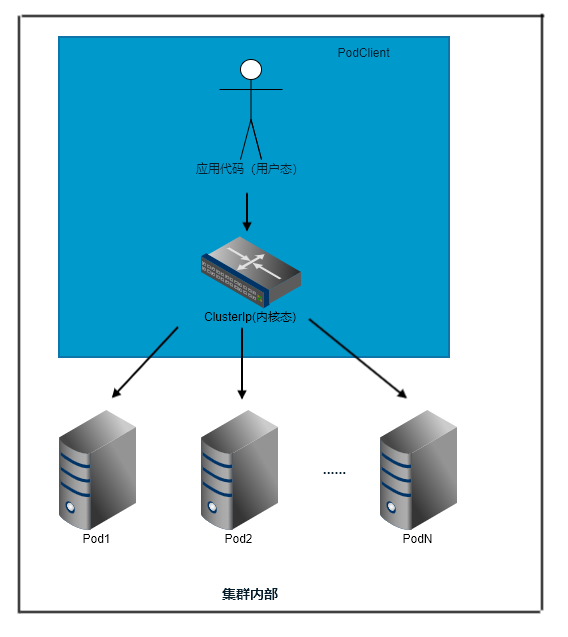
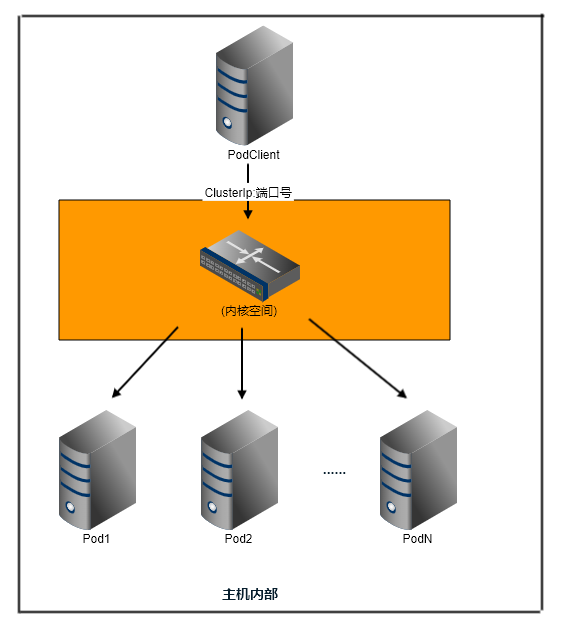
重新编译代码

diff --git a/docs/posts/k8s-startup/index.html b/docs/posts/k8s-startup/index.html
@@ -23,7 +23,7 @@
 <script class="next-config" data-name="main" type="application/json">{"hostname":"blog.whyun.com","root":"/","images":"/images","scheme":"Muse","version":"8.7.1","exturl":false,"sidebar":{"position":"left","display":"post","padding":18,"offset":12},"copycode":true,"bookmark":{"enable":false,"color":"#222","save":"auto"},"mediumzoom":false,"lazyload":false,"pangu":false,"comments":{"style":"tabs","active":null,"storage":true,"lazyload":false,"nav":null},"motion":{"enable":false,"async":false,"transition":{"post_block":"fadeIn","post_header":"fadeInDown","post_body":"fadeInDown","coll_header":"fadeInLeft","sidebar":"fadeInUp"}},"prism":false,"i18n":{"placeholder":"搜索...","empty":"没有找到任何搜索结果：${query}","hits_time":"找到 ${hits} 个搜索结果（用时 ${time} 毫秒）","hits":"找到 ${hits} 个搜索结果"}}</script><script src="/js/config.js"></script>
 <meta name="description" content="之前通过讲 [docker compose 教程](https:&#x2F;&#x2F;blog.whyun.com&#x2F;posts&#x2F;docker-compose-tutorial&#x2F;) 初步了解容器编排技术。但是 docker compose 默认只能在单机模式下运行，如果想在多个宿主机上运行，你可以借助 [docker swarm](https:&#x2F;&#x2F;docs.docker.com&#x2F;engine&#x2F;swarm&#x2F;) 技术，你">
 <meta property="og:type" content="article">
-<meta property="og:title" content="k8s 入门">
+<meta property="og:title" content="k8s 原理入门">
 <meta property="og:url" content="https://blog.whyun.com/posts/k8s-startup/">
 <meta property="og:site_name" content="白一梓的个人博客">
 <meta property="og:description" content="之前通过讲 [docker compose 教程](https:&#x2F;&#x2F;blog.whyun.com&#x2F;posts&#x2F;docker-compose-tutorial&#x2F;) 初步了解容器编排技术。但是 docker compose 默认只能在单机模式下运行，如果想在多个宿主机上运行，你可以借助 [docker swarm](https:&#x2F;&#x2F;docs.docker.com&#x2F;engine&#x2F;swarm&#x2F;) 技术，你">
@@ -33,7 +33,7 @@
 <meta property="og:image" content="https://blog.whyun.com/images/nat_transform.png">
 <meta property="og:image" content="https://blog.whyun.com/images/route_in_k8s.png">
 <meta property="article:published_time" content="2021-10-25T16:00:00.000Z">
-<meta property="article:modified_time" content="2021-10-30T15:50:48.430Z">
+<meta property="article:modified_time" content="2021-10-31T05:28:07.974Z">
 <meta property="article:author" content="yunnysunny">
 <meta name="twitter:card" content="summary">
 <meta name="twitter:image" content="https://blog.whyun.com/images/docker_desktop_k8s.png">
@@ -43,10 +43,10 @@
 
 
 
-<script class="next-config" data-name="page" type="application/json">{"sidebar":"","isHome":false,"isPost":true,"lang":"zh-CN","comments":true,"permalink":"https://blog.whyun.com/posts/k8s-startup/","path":"posts/k8s-startup/","title":"k8s 入门"}</script>
+<script class="next-config" data-name="page" type="application/json">{"sidebar":"","isHome":false,"isPost":true,"lang":"zh-CN","comments":true,"permalink":"https://blog.whyun.com/posts/k8s-startup/","path":"posts/k8s-startup/","title":"k8s 原理入门"}</script>
 
 <script class="next-config" data-name="calendar" type="application/json">""</script>
-<title>k8s 入门 | 白一梓的个人博客</title>
+<title>k8s 原理入门 | 白一梓的个人博客</title>
   
 
   <script src="/js/third-party/analytics/baidu-analytics.js"></script>
@@ -213,7 +213,7 @@
     </span>
       <header class="post-header">
         <h1 class="post-title" itemprop="name headline">
-          k8s 入门
+          k8s 原理入门
         </h1>
 
         <div class="post-meta-container">
@@ -231,7 +231,7 @@
           <i class="far fa-calendar-check"></i>
         </span>
         <span class="post-meta-item-text">更新于</span>
-        <time title="修改时间：2021-10-30 23:50:48" itemprop="dateModified" datetime="2021-10-30T23:50:48+08:00">2021-10-30</time>
+        <time title="修改时间：2021-10-31 13:28:07" itemprop="dateModified" datetime="2021-10-31T13:28:07+08:00">2021-10-31</time>
       </span>
 
   
@@ -245,7 +245,7 @@
     
     
     <div class="post-body" itemprop="articleBody">
-        <p>之前通过讲 <a href="https://blog.whyun.com/posts/docker-compose-tutorial/">docker compose 教程</a> 初步了解容器编排技术。但是 docker compose 默认只能在单机模式下运行，如果想在多个宿主机上运行，你可以借助 <a target="_blank" rel="noopener" href="https://docs.docker.com/engine/swarm/">docker swarm</a> 技术，你可以方便的将 docker-compose.yml 文件运用到 swarm 集群创建中。不过由于 <a target="_blank" rel="noopener" href="https://kubernetes.io/zh/">kubernetes</a> 的出现，swarm 的市场受到了极大排挤，目前各大公司利用容器编排技术，一般都会选择 kubernetes。本文顺应时势，在讲解容器编排技术的时候也是选择了 kubernetes 作为入门教程。</p>
+        <p>之前通过讲 <a href="https://blog.whyun.com/posts/docker-compose-tutorial/">docker compose 教程</a> 初步了解容器编排技术。但是 docker compose 默认只能在单机模式下运行，如果想在多个宿主机上运行，你可以借助 <a target="_blank" rel="noopener" href="https://docs.docker.com/engine/swarm/">docker swarm</a> 技术，你可以方便的将 docker-compose.yml 文件运用到 swarm 集群创建中。不过由于 <a target="_blank" rel="noopener" href="https://kubernetes.io/zh/">kubernetes</a> 的出现，swarm 的市场受到了极大排挤，目前各大公司利用容器编排技术，一般都会选择 kubernetes。本文顺应时势，在讲解容器编排技术的时候也是选择了 kubernetes 作为入门教程。本文主要讲解 kubernetes 的安装和内部原理。</p>
 <h2 id="1-安装"><a href="#1-安装" class="headerlink" title="1. 安装"></a>1. 安装</h2><h3 id="1-1-Linux-下安装"><a href="#1-1-Linux-下安装" class="headerlink" title="1.1 Linux 下安装"></a>1.1 Linux 下安装</h3><p>处于演示目的，我们依然选择安装单机版 kubernets，在 Linux 下可以选择安装 <a target="_blank" rel="noopener" href="https://github.com/kubernetes/minikube">minikube</a> 这个工具。</p>
 <figure class="highlight shell"><table><tr><td class="gutter"><pre><span class="line">1</span><br><span class="line">2</span><br><span class="line">3</span><br></pre></td><td class="code"><pre><span class="line">wget https://github.com/kubernetes/minikube/releases/download/v1.23.2/minikube-linux-amd64</span><br><span class="line">chmod +x minikube-linux-amd64</span><br><span class="line">mv minikube-linux-amd64 /usr/local/bin/minikube</span><br></pre></td></tr></table></figure>
 <p><strong>代码 1.1.1</strong></p>
@@ -293,12 +293,17 @@
 <p><img src="/images/nat_transform.png"></p>
 <p><strong>图 2.2</strong></p>
 <p>整个 <code>NAT</code> 过程如上图所示。</p>
-<p>考虑到高可靠性的问题，一个服务不可能部署为单节点，为了展示数据流向，我们在 <strong>图 2.2</strong> 只画了一个节点，实际情况应该是多个节点（对于 kubernetes 来说，这个 “节点” 就称之为 pod）的拓扑结构。而在 kubernetes 中我们并不是需要一台专门的机器做路由，我们的路由被内置到了集群中的没一台机器中，对于集群中的每个服务来说在系统中都会映射出一个 <code>虚拟 IP</code>。用户编写代码如果要连接一个特定服务，只需要提供<code>虚拟 IP</code> 和服务端口号即可，内核层会自动查找到当前 <code>虚拟 IP</code> 对应的某一个 pod 节点，把你的网络数据包转发过去。这个转发过程，全都是在发起请求的 pod 上完成的（整个蓝色区域都是 <code>PodClient</code> 这台区域，虽然里面画了一个路由器，但是仅仅是用来类比<strong>路由表</strong>的功能），效率比较高。上面所说的转发，也就是完成了 <strong>图2.2</strong> 中的第 2 步。不过 <code>PodClient</code> <code>Pod1</code> - <code>PodN</code> 一系列机器都在一个网络中，在 <strong>图 2.2</strong> 中第 <code>3</code> <code>4</code> 步也就不需要了，某一个 <code>PodX</code> 在处理完数据之后请求者的源地址是直接可达的，所以不再需要做地址转化。<code>PodClient</code> 的内核态具体选择哪个 pod，kubernetes 内置了若干<a target="_blank" rel="noopener" href="https://kubernetes.io/zh/docs/concepts/services-networking/service/#proxy-mode-ipvs">算法</a>，比如说 <code>Round-Robin</code> <code>Least Connection</code>，更多说明参见算法链接（使用 IPVS 模式时支持若干算法，但是使用 iptables 时，支支持 <code>Round-Robin</code> 算法）。</p>
+<p>考虑到高可靠性的问题，一个服务不可能部署为单节点，为了展示数据流向，我们在 <strong>图 2.2</strong> 只画了一个节点，实际情况应该是多个节点（对于 kubernetes 来说，这个 “节点” 就称之为 pod）的拓扑结构。而在 kubernetes 中我们并不是需要一台专门的机器做路由，我们的路由被内置到了集群中的没一台机器中，对于集群中的每个服务来说在系统中都会映射出一个 <code>虚拟 IP</code>。用户编写代码如果要连接一个特定服务，只需要提供<code>虚拟 IP</code> 和服务端口号即可，内核层会自动查找到当前 <code>虚拟 IP</code> 对应的某一个 pod 节点，把你的网络数据包转发过去。这个转发过程，全都是在一台主机上完成的（橙色区域写的内核空间，由于我们描述的是一台主机的情况，所以各个 pod 是共享的内核。里面画了一个路由器，但是仅仅是用来类比<strong>路由表</strong>的功能。），效率比较高。上面所说的转发，也就是完成了 <strong>图2.2</strong> 中的第 2 步。不过 <code>PodClient</code> <code>Pod1</code> - <code>PodN</code> 一系列机器都在一个网络中，在 <strong>图 2.2</strong> 中第 <code>3</code> <code>4</code> 步也就不需要了，某一个 <code>PodX</code> 在处理完数据之后请求者的源地址是直接可达的，所以不再需要做地址转化。<code>PodClient</code> 的内核态具体选择哪个 pod，kubernetes 内置了若干<a target="_blank" rel="noopener" href="https://kubernetes.io/zh/docs/concepts/services-networking/service/#proxy-mode-ipvs">算法</a>，比如说 <code>Round-Robin</code> <code>Least Connection</code>，更多说明参见算法链接（使用 IPVS 模式时支持若干算法，但是使用 iptables 时，支支持 <code>Round-Robin</code> 算法）。</p>
+<blockquote>
+<p>真实的情况下，kubernetes 集群中肯定会部署多台主机，网络情况比当前举例的要更复杂。简单起见这里仅仅描述一台主机的情况。</p>
+</blockquote>
 <p><img src="/images/route_in_k8s.png"></p>
 <p><strong>图 2.3</strong></p>
-<p>同时由于集群内部服务的 pod 个数是动态增减的，这样才能灵活应对流量的激增和回退。所以<strong>图 2.3</strong> 中的路由表信息如果写死肯定不能应对这种情况。kubernetes 中使用 etcd 来存储数据，它通过 raft 一致性算法来保证数据一致性。一个关联的 pod 有增减之后，就会更改 etcd 数据，kubernetes 中的 kube-proxy 程序会自动监听节点变动，然后把数据同步到各个 pod 节点。</p>
+<p>同时由于集群内部服务的 pod 个数是动态增减的，这样才能灵活应对流量的激增和回退。所以<strong>图 2.3</strong> 中的路由表信息如果写死肯定不能应对这种情况。kubernetes 中使用 etcd 来存储数据，它通过 raft 一致性算法来保证数据一致性。一个关联的 pod 有增减之后，就会更改 etcd 数据，kubernetes 中的 kube-proxy 程序会自动监听节点变动，然后把同步修改主机上的路由表（或者 IPVS 信息）。</p>
 <h2 id="参考资料"><a href="#参考资料" class="headerlink" title="参考资料"></a>参考资料</h2><ol>
 <li><a target="_blank" rel="noopener" href="https://segmentfault.com/a/1190000022685244">https://segmentfault.com/a/1190000022685244</a></li>
+<li><a target="_blank" rel="noopener" href="https://blog.51cto.com/u_14359196/2424034">https://blog.51cto.com/u_14359196/2424034</a></li>
+<li><a target="_blank" rel="noopener" href="https://arthurchiao.art/blog/cracking-k8s-node-proxy/">https://arthurchiao.art/blog/cracking-k8s-node-proxy/</a></li>
 </ol>
 
     </div>
@@ -317,7 +322,7 @@
   </li>
   <li class="post-copyright-link">
       <strong>本文链接：</strong>
-      <a href="https://blog.whyun.com/posts/k8s-startup/" title="k8s 入门">https://blog.whyun.com/posts/k8s-startup/</a>
+      <a href="https://blog.whyun.com/posts/k8s-startup/" title="k8s 原理入门">https://blog.whyun.com/posts/k8s-startup/</a>
   </li>
   <li class="post-copyright-license">
     <strong>版权声明： </strong>本博客所有文章除特别声明外，均采用 <a href="https://creativecommons.org/licenses/by-nc-sa/4.0/" rel="noopener" target="_blank"><i class="fab fa-fw fa-creative-commons"></i>BY-NC-SA</a> 许可协议。转载请注明出处！

diff --git a/docs/index.html b/docs/index.html
@@ -202,7 +202,7 @@
     </span>
       <header class="post-header">
         <h2 class="post-title" itemprop="name headline">
-          <a href="/posts/k8s-startup/" class="post-title-link" itemprop="url">k8s 入门</a>
+          <a href="/posts/k8s-startup/" class="post-title-link" itemprop="url">k8s 原理入门</a>
         </h2>
 
         <div class="post-meta-container">
@@ -220,7 +220,7 @@
           <i class="far fa-calendar-check"></i>
         </span>
         <span class="post-meta-item-text">更新于</span>
-        <time title="修改时间：2021-10-30 23:50:48" itemprop="dateModified" datetime="2021-10-30T23:50:48+08:00">2021-10-30</time>
+        <time title="修改时间：2021-10-31 13:28:07" itemprop="dateModified" datetime="2021-10-31T13:28:07+08:00">2021-10-31</time>
       </span>
 
   

diff --git a/docs/posts/docker-compose-tutorial/index.html b/docs/posts/docker-compose-tutorial/index.html
@@ -320,8 +320,8 @@
                 </a>
             </div>
             <div class="post-nav-item">
-                <a href="/posts/k8s-startup/" rel="next" title="k8s 入门">
-                  k8s 入门 <i class="fa fa-chevron-right"></i>
+                <a href="/posts/k8s-startup/" rel="next" title="k8s 原理入门">
+                  k8s 原理入门 <i class="fa fa-chevron-right"></i>
                 </a>
             </div>
           </div>

diff --git a/docs/archives/2021/10/index.html b/docs/archives/2021/10/index.html
@@ -208,7 +208,7 @@
 
       <div class="post-title">
           <a class="post-title-link" href="/posts/k8s-startup/" itemprop="url">
-            <span itemprop="name">k8s 入门</span>
+            <span itemprop="name">k8s 原理入门</span>
           </a>
       </div>
 

diff --git a/docs/archives/2021/index.html b/docs/archives/2021/index.html
@@ -208,7 +208,7 @@
 
       <div class="post-title">
           <a class="post-title-link" href="/posts/k8s-startup/" itemprop="url">
-            <span itemprop="name">k8s 入门</span>
+            <span itemprop="name">k8s 原理入门</span>
           </a>
       </div>
 

diff --git a/docs/archives/index.html b/docs/archives/index.html
@@ -208,7 +208,7 @@
 
       <div class="post-title">
           <a class="post-title-link" href="/posts/k8s-startup/" itemprop="url">
-            <span itemprop="name">k8s 入门</span>
+            <span itemprop="name">k8s 原理入门</span>
           </a>
       </div>
 
